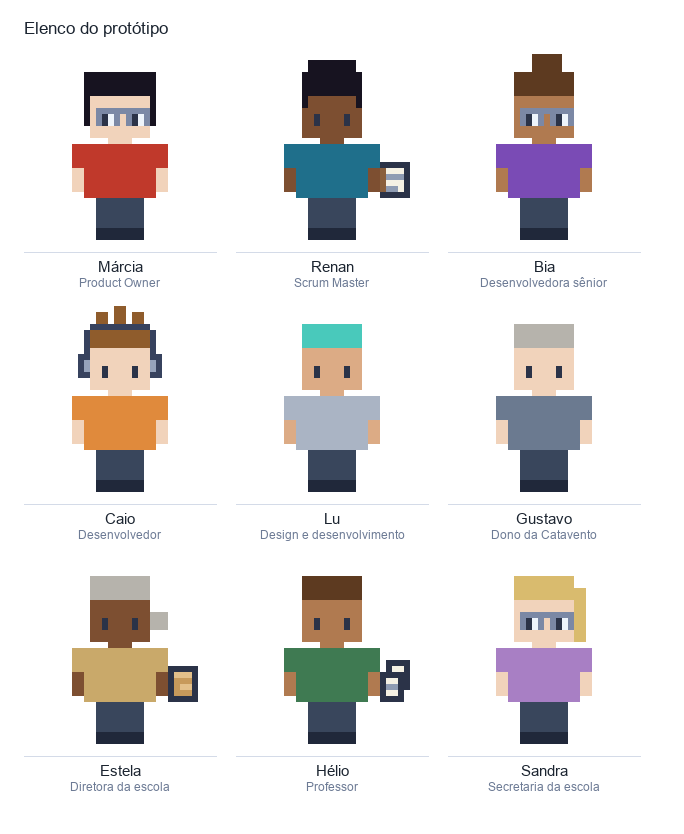
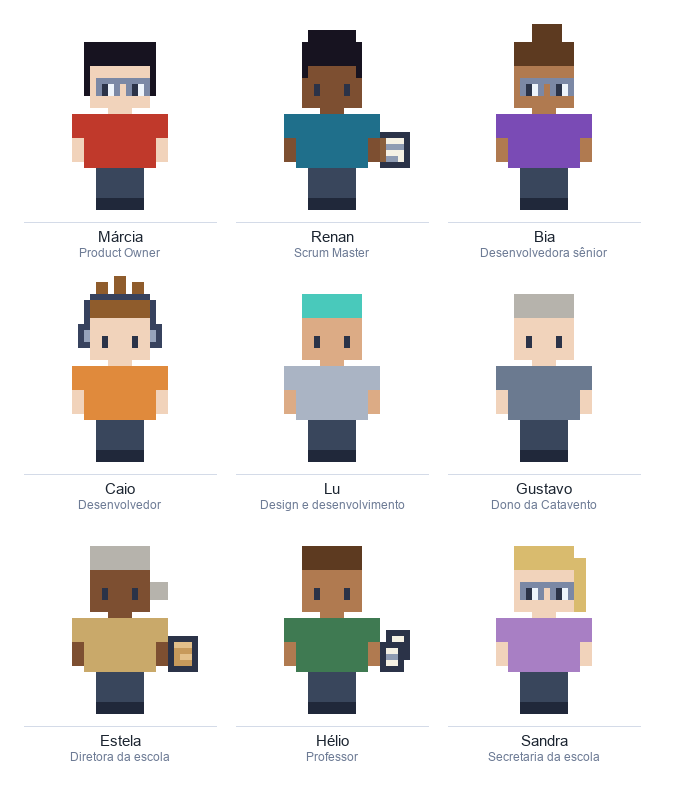
Remover título das figuras

diff --git a/tools/gerar_folha_elenco.py b/tools/gerar_folha_elenco.py
@@ -97,7 +97,7 @@ def main():
     parser.add_argument("--escala", type=int, default=6, help="ampliação de cada sprite")
     parser.add_argument("--colunas", type=int, default=3, help="personagens por linha")
     parser.add_argument("--saida", default="elenco.png", help="nome do arquivo em figuras/")
-    parser.add_argument("--titulo", default="Elenco do protótipo", help="título; vazio para omitir")
+    parser.add_argument("--titulo", default="", help="título; vazio para omitir")
     argumentos = parser.parse_args()
 
     cartoes = montar_cartoes(argumentos.escala)

diff --git a/tools/gerar_folha_expressoes.py b/tools/gerar_folha_expressoes.py
@@ -116,9 +116,7 @@ def main():
     )
     parser.add_argument("--escala", type=int, default=6, help="ampliação de cada retrato")
     parser.add_argument("--saida", default="expressoes.png", help="nome do arquivo em figuras/")
-    parser.add_argument(
-        "--titulo", default="Expressões do retrato", help="título; vazio para omitir"
-    )
+    parser.add_argument("--titulo", default="", help="título; vazio para omitir")
     argumentos = parser.parse_args()
 
     desconhecidos = [c for c in argumentos.personagens if c not in sprites.ELENCO]
